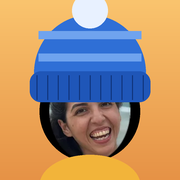
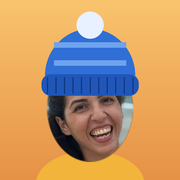
v7b

Changed region(s): [[0.1389, 0.0, 0.8611, 1.0]]

diff --git a/sw.js b/sw.js
@@ -1,4 +1,4 @@
-var CACHE = "orel-v7";
+var CACHE = "orel-v8";
 var ASSETS = ["./", "index.html", "manifest.webmanifest", "img/icon-180.png", "img/icon-192.png", "img/icon-512.png", "img/icon.png", "img/d1.webp", "img/d2.webp"];
 for (var i = 1; i <= 11; i++) ASSETS.push("img/a" + i + ".webp");
 for (var j = 1; j <= 16; j++) ASSETS.push("clips/v" + j + ".mp3");
